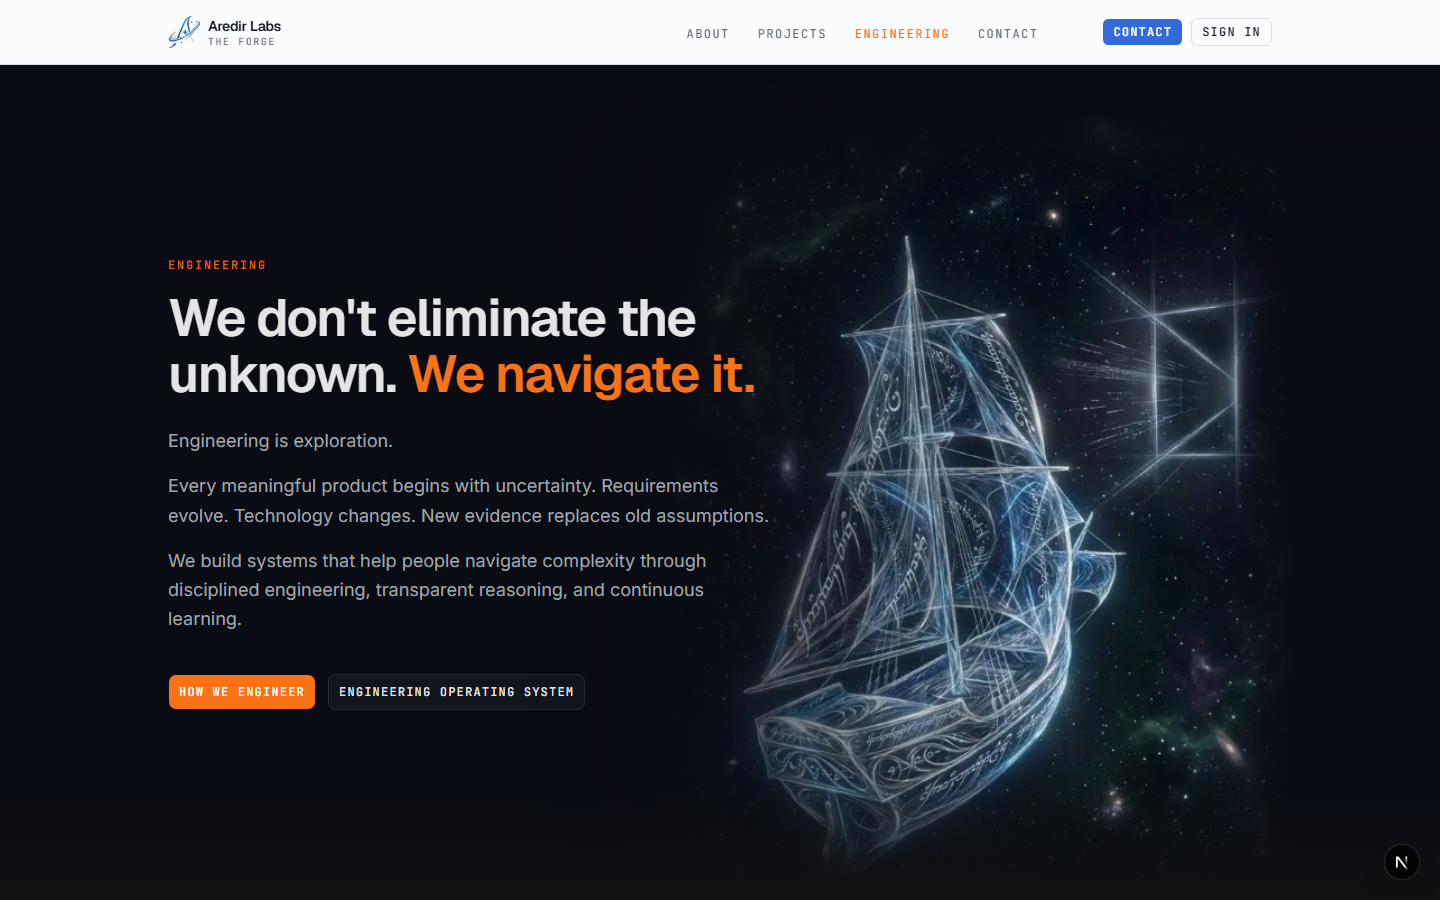
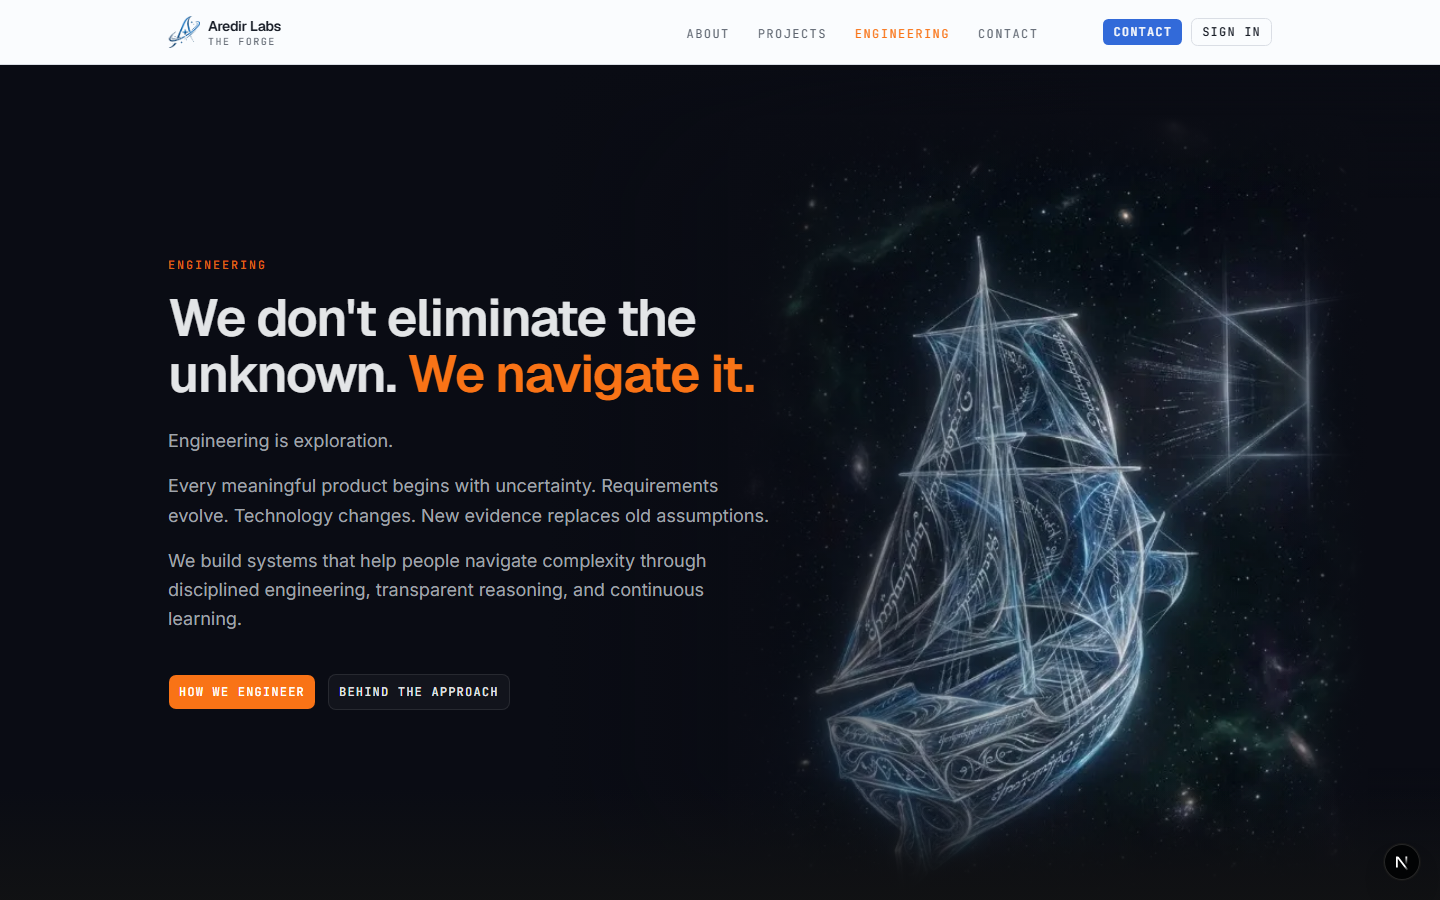
style(site): polish public engineering hero composition

diff --git a/src/components/engineering/engineering-hero-ship.tsx b/src/components/engineering/engineering-hero-ship.tsx
@@ -10,7 +10,8 @@ type EngineeringHeroShipProps = {
  * Environmental ship layer for the Engineering hero.
  *
  * Soft edge dissolves + rounded corners soften the PNG rectangle into the
- * page night while keeping the vessel and destination readable.
+ * page night. Final polish: slight right bias for typography room, reduced
+ * vessel opacity, and a quieter navigation constellation.
  */
 export function EngineeringHeroShip({ className }: EngineeringHeroShipProps) {
   return (
@@ -24,11 +25,11 @@ export function EngineeringHeroShip({ className }: EngineeringHeroShipProps) {
         className={cn(
           "absolute overflow-hidden rounded-[1.75rem] lg:rounded-[2.25rem]",
           // Mobile — vessel sits in lower field; silhouette kept intact
-          "bottom-[2%] left-[2%] right-[2%] h-[min(46svh,24rem)]",
-          "sm:left-[10%] sm:right-[4%] sm:h-[min(48svh,26rem)]",
-          // Desktop — left enough for destination; room for edge dissolves
-          "lg:bottom-[-2%] lg:left-auto lg:right-[8%] lg:top-[6%] lg:h-auto lg:w-[min(56%,38rem)]",
-          "xl:right-[10%] xl:w-[min(52%,40rem)]",
+          "bottom-[2%] left-[4%] right-0 h-[min(46svh,24rem)]",
+          "sm:left-[12%] sm:right-0 sm:h-[min(48svh,26rem)]",
+          // Desktop — ~4% farther right for typography breathing room
+          "lg:bottom-[-2%] lg:left-auto lg:right-[4%] lg:top-[6%] lg:h-auto lg:w-[min(56%,38rem)]",
+          "xl:right-[5%] xl:w-[min(52%,40rem)]",
         )}
       >
         <Image
@@ -38,10 +39,20 @@ export function EngineeringHeroShip({ className }: EngineeringHeroShipProps) {
           priority
           sizes="(max-width: 1024px) 90vw, 38rem"
           className={cn(
-            // Bias framing toward the destination on the artwork's right
-            "object-cover object-[62%_40%] mix-blend-screen",
-            "lg:object-[60%_38%]",
+            // Vessel body primary; destination still readable but quieter
+            "object-cover object-[58%_40%] mix-blend-screen opacity-[0.92]",
+            "lg:object-[56%_38%] lg:opacity-90",
           )}
+        />
+
+        {/* Soften the navigation constellation (right of vessel) without hiding it */}
+        <div
+          className="absolute inset-y-0 right-0 w-[42%] lg:w-[38%]"
+          style={{
+            background:
+              "linear-gradient(270deg, rgba(10,12,20,0.28) 0%, rgba(10,12,20,0.14) 45%, transparent 100%)",
+          }}
+          aria-hidden
         />
 
         {/* Narrow edge dissolves on all four sides */}
@@ -84,7 +95,7 @@ export function EngineeringHeroShip({ className }: EngineeringHeroShipProps) {
         className="absolute inset-0"
         style={{
           background: [
-            "linear-gradient(90deg, #0a0c14 0%, #0a0c14 36%, rgba(10,12,20,0.75) 50%, rgba(10,12,20,0.25) 62%, transparent 74%)",
+            "linear-gradient(90deg, #0a0c14 0%, #0a0c14 38%, rgba(10,12,20,0.78) 52%, rgba(10,12,20,0.28) 64%, transparent 76%)",
             "linear-gradient(180deg, #0a0c14 0%, rgba(10,12,20,0.45) 6%, transparent 16%)",
             "linear-gradient(0deg, #0a0c14 0%, rgba(10,12,20,0.4) 6%, transparent 16%)",
           ].join(", "),